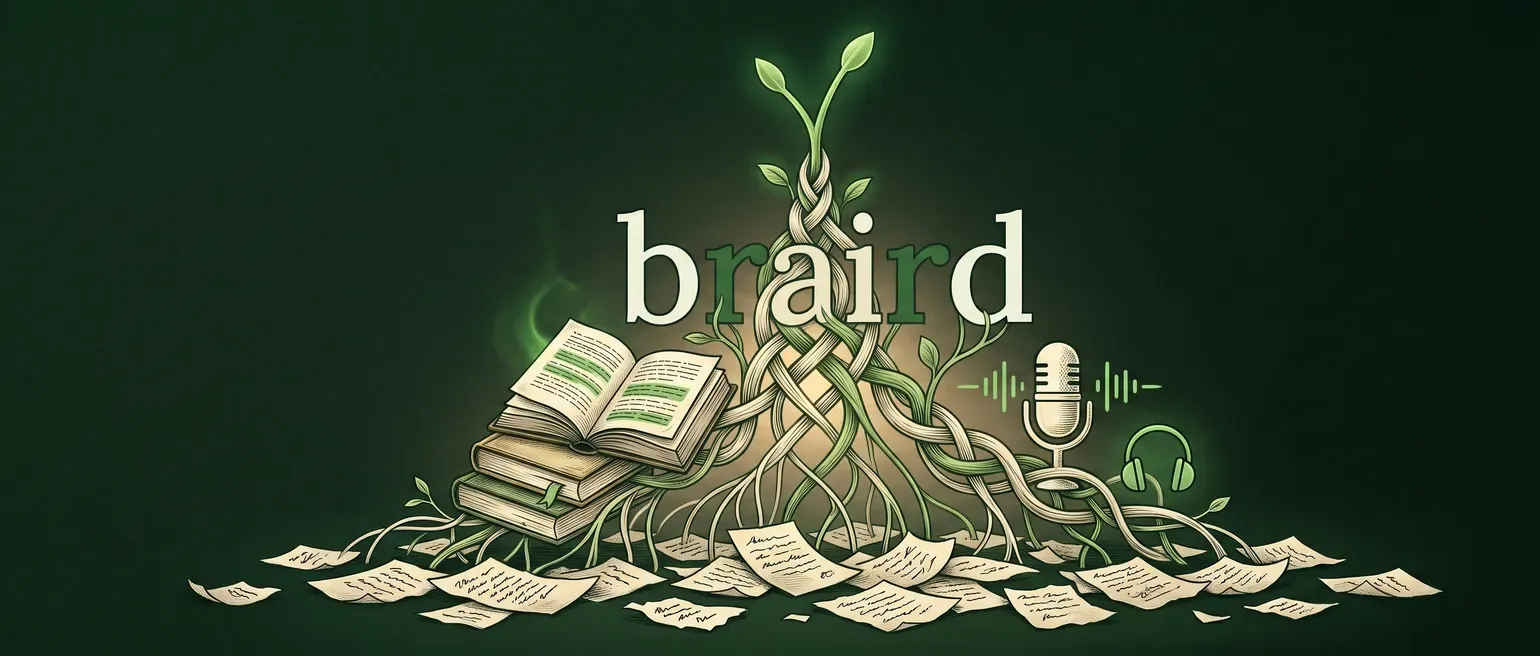
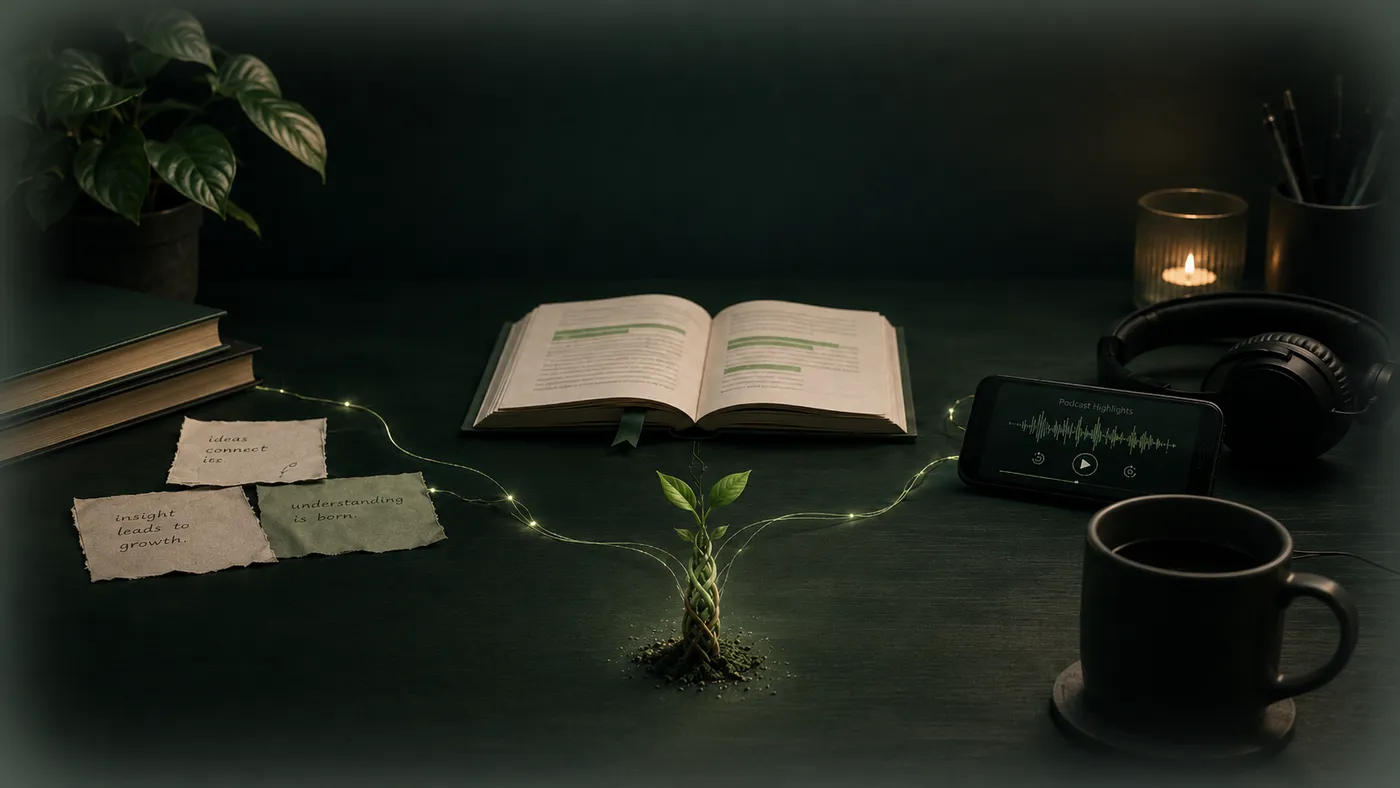
feat(landing): brand illustration hero, dictionary close, refreshed copy (SUR-679)
- Hero: replace text-only treatment with the brand illustration in the right
  column (book sprouting an idea, threads to notes/books/phone), edges feathered
  into the forest ground so it dissolves rather than ending in a frame; two-col
  grid collapses to stacked on mobile. New bfSurface fade for the art.
- Beats: remove the faded underlay image (the illustration now leads the hero)
  and drop the last beat's bottom hairline (the Close section's top border is
  the divider, so it no longer doubles up).
- Close: add the dictionary gloss beneath the wordmark — /brɛːrd/ — the first
  green shoots after sowing — verbatim from the brand identity sheet.
- Copy: new subtitles for Connect (hero), Create, and Resurface.
- Asset: braird-hero.webp regenerated from braird-hero-final.png (1.8 MB PNG →
  46 KB WebP, 1400px q80); source PNG committed to the brand kit.

diff --git a/src/styles/braird.css b/src/styles/braird.css
@@ -216,7 +216,7 @@ html:has(> body.braird-front-door) {
 .bf-hero {
   position: relative;
   overflow: hidden;
-  padding: clamp(120px, 18vh, 180px) 0 clamp(64px, 10vh, 110px);
+  padding: clamp(116px, 16vh, 168px) 0 clamp(64px, 10vh, 110px);
 }
 .bf-hero-glow {
   position: absolute;
@@ -229,6 +229,35 @@ html:has(> body.braird-front-door) {
 }
 .bf-hero > .bf-wrap,
 .bf-close > .bf-wrap { position: relative; z-index: 1; }
+/* Two columns: copy left, illustration right. Collapses to one on narrow. */
+.bf-hero > .bf-wrap {
+  display: grid;
+  grid-template-columns: minmax(0, 1fr) minmax(0, 1.08fr);
+  gap: clamp(28px, 5vw, 76px);
+  align-items: center;
+}
+.bf-hero-copy { min-width: 0; }
+
+/* Brand illustration — its ground is the forest, so feather all four edges to
+   dissolve it into the page (no hard rectangle). */
+.bf-hero-art {
+  margin: 0;
+  min-width: 0;
+}
+.bf-hero-art img {
+  display: block;
+  width: 100%;
+  height: auto;
+  -webkit-mask-image:
+    linear-gradient(to right, transparent 0%, #000 13%, #000 93%, transparent 100%),
+    linear-gradient(to bottom, transparent 0%, #000 9%, #000 91%, transparent 100%);
+          mask-image:
+    linear-gradient(to right, transparent 0%, #000 13%, #000 93%, transparent 100%),
+    linear-gradient(to bottom, transparent 0%, #000 9%, #000 91%, transparent 100%);
+  -webkit-mask-composite: source-in;
+          mask-composite: intersect;
+}
+
 .bf-hero-title {
   font-family: var(--font-display);
   font-weight: 500;
@@ -248,37 +277,20 @@ html:has(> body.braird-front-door) {
 }
 .bf-cta-row { display: flex; flex-wrap: wrap; gap: 16px; align-items: center; }
 
-/* ── BEATS — the verb arc with the brand illustration underlaying it ──
-   The art sits on the right, faded and decorative, bleeding off the edge so it
-   spans the three beats; each lines up with the matching region (Create ↔
-   sprout/top, Compound ↔ braid/middle, Resurface ↔ books/base). */
+@media (max-width: 880px) {
+  /* Stack: copy first, illustration beneath it, full-bleed-ish. */
+  .bf-hero > .bf-wrap { grid-template-columns: 1fr; gap: clamp(28px, 6vw, 44px); }
+  .bf-hero-art { max-width: 560px; margin: 0 auto; }
+  .bf-hero-title { max-width: 18ch; }
+}
+
+/* ── BEATS — the verb arc, clean and typographic ── */
 .bf-beats {
   position: relative;
   overflow: hidden;
   padding: clamp(44px, 7vh, 88px) 0 clamp(60px, 10vh, 110px);
 }
 .bf-beats > .bf-wrap { position: relative; z-index: 1; }
-.bf-beats-art {
-  position: absolute;
-  top: 50%;
-  right: -3%;
-  transform: translateY(-50%);
-  width: clamp(600px, 72%, 1080px);
-  height: auto;
-  max-width: none;
-  opacity: 0.5;
-  pointer-events: none;
-  user-select: none;
-  z-index: 0;
-  /* Fade the left edge so the illustration slips under the beat text rather
-     than ending in a hard line. */
-  -webkit-mask-image: linear-gradient(to right, transparent 0%, #000 30%, #000 100%);
-          mask-image: linear-gradient(to right, transparent 0%, #000 30%, #000 100%);
-}
-@media (max-width: 760px) {
-  /* On narrow screens the underlay would crowd the stacked text — calm it. */
-  .bf-beats-art { width: 90%; right: -24%; opacity: 0.24; }
-}
 
 .bf-beat-list {
   list-style: none;
@@ -295,7 +307,8 @@ html:has(> body.braird-front-door) {
   padding: clamp(34px, 5vh, 52px) 0;
   border-top: 1px solid var(--bf-hair);
 }
-.bf-beat:last-child { border-bottom: 1px solid var(--bf-hair); }
+/* No bottom rule on the last beat — the Close section's own top border is the
+   divider, so a border here would double up with it. */
 .bf-beat-verb {
   font-family: var(--font-ui);
   font-weight: 700;
@@ -341,10 +354,27 @@ html:has(> body.braird-front-door) {
   display: inline-flex;
   align-items: center;
   gap: 12px;
-  margin-bottom: 26px;
+  margin-bottom: 12px;
 }
 .bf-close-lockup .braird-wm-text { font-size: 34px; }
 .bf-close-lockup .braird-wm-mark { width: 34px; height: 34px; }
+
+/* Dictionary gloss beneath the wordmark — the name's meaning, verbatim from the
+   brand identity sheet. Reads as a lexicon entry: headword (the wordmark above)
+   → pronunciation → definition. */
+.bf-close-def {
+  font-family: var(--font-ui);
+  font-size: 15px;
+  line-height: 1.5;
+  letter-spacing: 0.005em;
+  color: var(--bf-muted);
+  margin: 0 auto 30px;
+  max-width: 54ch;
+}
+.bf-close-def .bf-ipa {
+  font-style: italic;
+  color: rgba(157, 179, 162, 0.8);
+}
 .bf-close-line {
   font-family: var(--font-display);
   font-weight: 500;
@@ -371,8 +401,19 @@ html:has(> body.braird-front-door) {
   .bf-hero-title    { animation-delay: 240ms; }
   .bf-hero-sub      { animation-delay: 400ms; }
   .bf-hero .bf-cta-row { animation-delay: 560ms; }
+
+  /* The illustration drifts up into place a beat behind the copy — slower and
+     gentler so the scene reads as it surfaces from the forest ground. */
+  .bf-hero-art {
+    animation: bfSurface 1400ms cubic-bezier(0.22, 1, 0.36, 1) both;
+    animation-delay: 360ms;
+  }
 }
 @keyframes bfRise {
   from { opacity: 0; transform: translateY(20px); }
   to   { opacity: 1; transform: translateY(0); }
+}
+@keyframes bfSurface {
+  from { opacity: 0; transform: translateY(26px) scale(0.985); }
+  to   { opacity: 1; transform: translateY(0) scale(1); }
 }